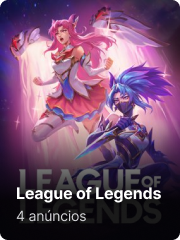
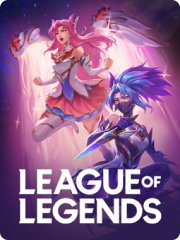
layout web finished

diff --git a/web/src/App.tsx b/web/src/App.tsx
@@ -1,24 +1,78 @@
 // JSX: JavaScript + XML (HTML)
+import { MagnifyingGlassPlus } from '@phosphor-icons/react'
+
 import './styles/main.css';
 import logoImg from './assets/logo-nlw-esports.svg';
 
 function App() {
   return (
-    <div className="max-w-[1344px] mx-auto flex flex-col items-center my-20">
+    <div className="max-w-[1344px] mx-auto flex flex-col items-center my-12">
       <img src={logoImg} alt="" />
 
-      <h1 className='text-6xl text-white font-black mt-20'>
+      <h1 className='text-6xl text-white font-black mt-12'>
         Seu <span className='text-transparent bg-nlw-gradient bg-clip-text'>duo</span> está aqui.
       </h1>
     
-      <div className='grid grid-cols-6 gap-6 mt-6'>
-        <a href=""><img src="/game-1.png" alt="" /></a>
-        <a href=""><img src="/game-2.png" alt="" /></a>
-        <a href=""><img src="/game-3.png" alt="" /></a>
-        <a href=""><img src="/game-4.png" alt="" /></a>
-        <a href=""><img src="/game-5.png" alt="" /></a>
-        <a href=""><img src="/game-6.png" alt="" /></a>
+      <div className='grid grid-cols-6 gap-6 mt-16'>
+        <a href="" className='relative rounded-lg overflow-hidden'>
+          <img src="/game-1.png" alt="" />
+          <div className='w-full pt-16 pb-4 px-4 bg-game-gradient absolute bottom-0 left-0 right-0'>
+            <strong className='font-bold text-white block'>League of Legends</strong>
+            <span className='text-zinc-300 text-sm'>4 anúncios</span>
+          </div> </a>
+
+        <a href="" className='relative rounded-lg overflow-hidden'>
+          <img src="/game-2.png" alt="" />
+          <div className='w-full pt-16 pb-4 px-4 bg-game-gradient absolute bottom-0 left-0 right-0'>
+            <strong className='font-bold text-white block'>Apex Legends</strong>
+            <span className='text-zinc-300 text-sm'>4 anúncios</span>
+          </div> </a>
+
+        <a href="" className='relative rounded-lg overflow-hidden'>
+          <img src="/game-3.png" alt="" />
+          <div className='w-full pt-16 pb-4 px-4 bg-game-gradient absolute bottom-0 left-0 right-0'>
+            <strong className='font-bold text-white block'>CS GO</strong>
+            <span className='text-zinc-300 text-sm'>4 anúncios</span>
+          </div> </a>
+
+        <a href="" className='relative rounded-lg overflow-hidden'>
+          <img src="/game-4.png" alt="" />
+          <div className='w-full pt-16 pb-4 px-4 bg-game-gradient absolute bottom-0 left-0 right-0'>
+            <strong className='font-bold text-white block'>World of Warckraft</strong>
+            <span className='text-zinc-300 text-sm'>4 anúncios</span>
+          </div> </a>
+
+        <a href="" className='relative rounded-lg overflow-hidden'>
+          <img src="/game-5.png" alt="" />
+          <div className='w-full pt-16 pb-4 px-4 bg-game-gradient absolute bottom-0 left-0 right-0'>
+            <strong className='font-bold text-white block'>Dota 2</strong>
+            <span className='text-zinc-300 text-sm'>4 anúncios</span>
+          </div> </a>
+
+        <a href="" className='relative rounded-lg overflow-hidden'>
+          <img src="/game-6.png" alt="" />
+          <div className='w-full pt-16 pb-4 px-4 bg-game-gradient absolute bottom-0 left-0 right-0'>
+            <strong className='font-bold text-white block'>Fortnite</strong>
+            <span className='text-zinc-300 text-sm'>4 anúncios</span>
+          </div> </a>
+
       </div>
+
+      <div className='pt-1 mt-8 bg-nlw-gradient self-stretch rounded-lg overflow-hidden'>
+        <div className='bg-[#2A2634] px-8 py-6 flex justify-between items-center'>
+          <div>
+            <strong className='tex-2xl text-white font-black block'>Não encontrou seu duo?</strong>
+            <span className='text-zinc-400 block'>Publique um anúncio para encontrar novos players!</span>
+          </div>
+
+          <button className='py-3 px-4 bg-violet-500 hover:bg-violet-600 text-white rounded flex items-center gap-3'>
+            <MagnifyingGlassPlus size={24} />
+            Publicar anúncio
+          </button>
+        </div>
+
+      </div>
+
     </div>
   )
 }

diff --git a/web/index.html b/web/index.html
@@ -2,8 +2,15 @@
 <html lang="pt-br">
   <head>
     <meta charset="UTF-8" />
+    
+    <link rel="preconnect" href="https://fonts.googleapis.com">
+    <link rel="preconnect" href="https://fonts.gstatic.com" crossorigin>
+    
     <link rel="icon" type="image/svg+xml" href="/vite.svg" />
     <meta name="viewport" content="width=device-width, initial-scale=1.0" />
+    
+    <link href="https://fonts.googleapis.com/css2?family=Inter:wght@400;700;900&family=Poppins:wght@400;500;600&display=swap" rel="stylesheet">
+    
     <title>NLW eSports</title>
   </head>
   <body class="bg-[#121214] bg-galaxy bg-cover bg-no-repeat">

diff --git a/web/tailwind.config.js b/web/tailwind.config.js
@@ -5,10 +5,14 @@ export default {
     './index.html',
   ],
   theme: {
+    fontFamily: {
+      sans: ['Inter', 'sans-serif'],
+    },
     extend: {
       backgroundImage: {
         galaxy: "url('/background-galaxy.png')",
         'nlw-gradient': 'linear-gradient(83deg, #9572FC 0%, #43E7AD 50.52%, #E1D55D 100%)',
+        'game-gradient': 'linear-gradient(180deg, rgba(0, 0, 0, 0.00) 0%, rgba(0, 0, 0, 0.90) 67.08%)',
       },
     },
   },
